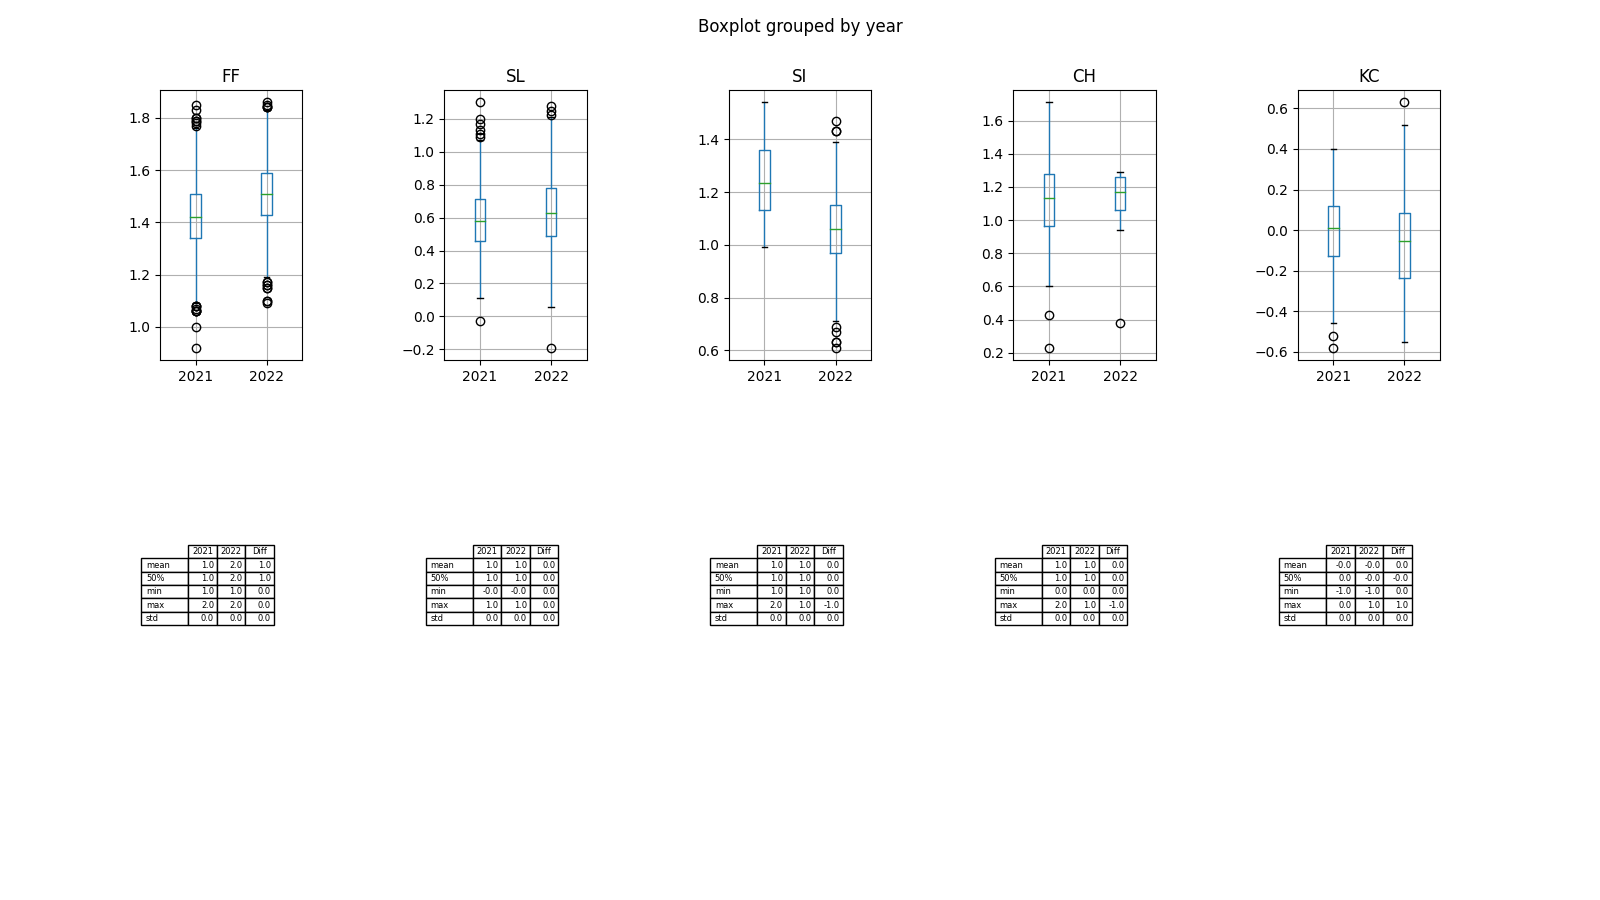
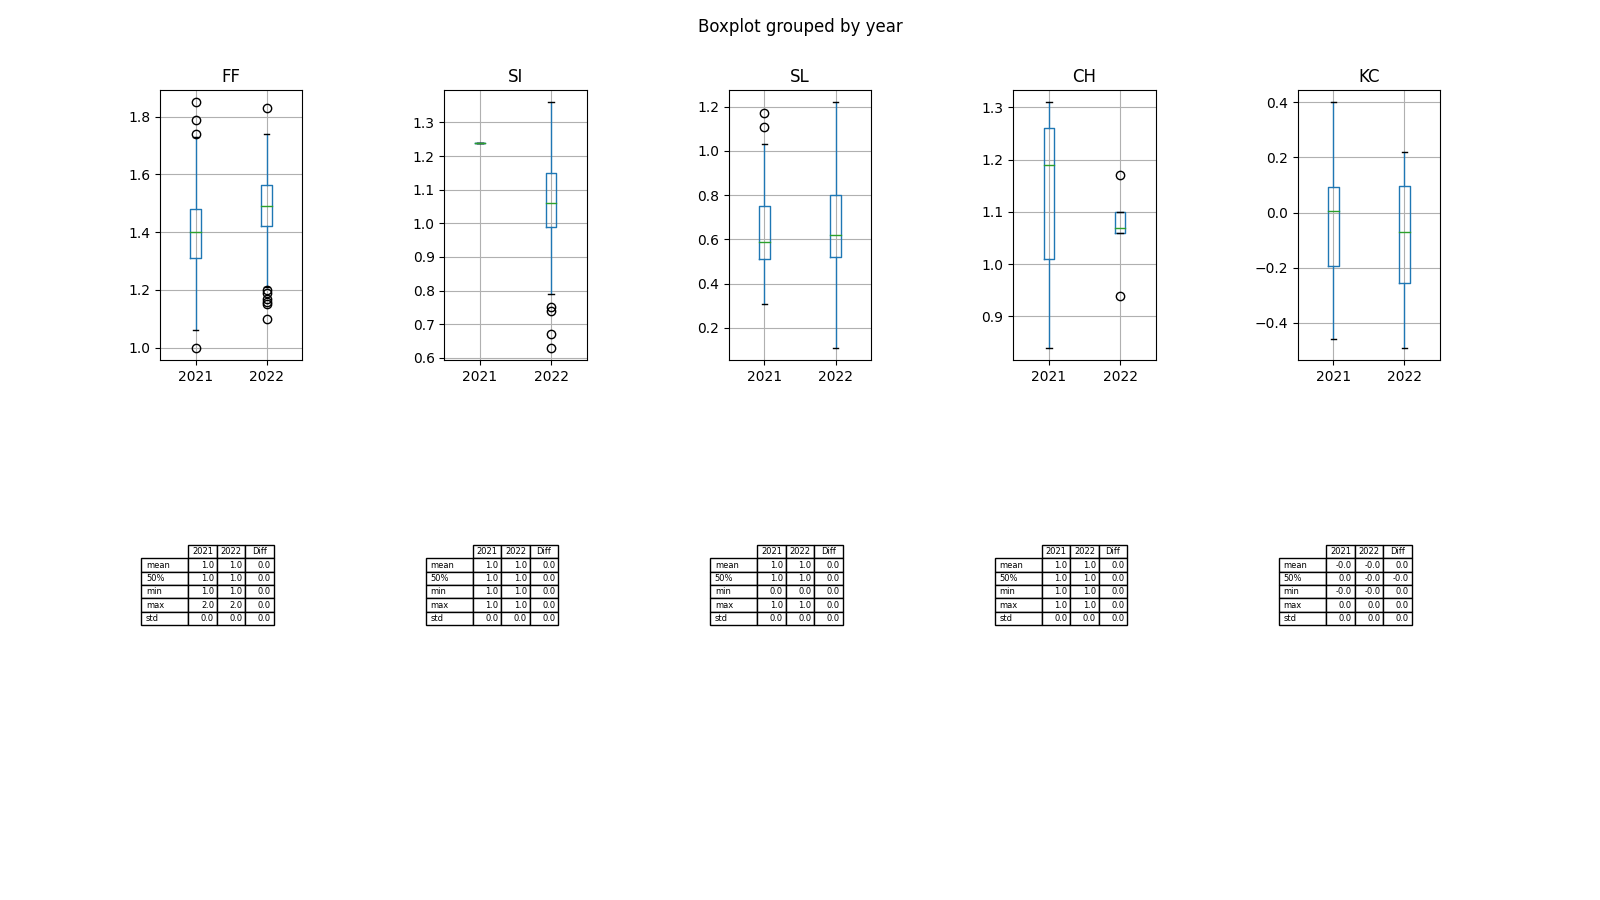
final

diff --git a/src/robbie_ray.py b/src/robbie_ray.py
@@ -8,34 +8,47 @@ player_id = 592662
 ray_stats = statcast_pitcher('2021-03-01', '2022-11-01', player_id)
 ray_stats['year'] = pd.to_datetime(ray_stats['game_date']).dt.year
 
+# Filter out rows without pitch_type and 'estimated_woba_using_speedangle'
+ray_stats = ray_stats.dropna(subset=['pitch_type', 'estimated_woba_using_speedangle'])
+
 # Features and stats
 features = ['release_speed', 'release_spin_rate', 'pfx_x', 'pfx_z', 'plate_x', 'plate_z']
-pitch_types = ray_stats['pitch_type'].dropna().unique()
+pitch_types = ray_stats['pitch_type'].unique()
 
 # Frequency Data
 pitch_frequency = ray_stats.groupby(['year', 'pitch_type']).size().reset_index(name='count')
 total_pitches = pitch_frequency.groupby('year')['count'].transform('sum')
 pitch_frequency['percent'] = (pitch_frequency['count'] / total_pitches) * 100
 
-# Page 1: Frequency Table
+# wOBA calculations
+woba_data = ray_stats.groupby(['year', 'pitch_type'])['estimated_woba_using_speedangle'].mean().reset_index()
+woba_pivot = woba_data.pivot(index='pitch_type', columns='year',
+                             values='estimated_woba_using_speedangle').fillna(0).round(3)
+
+# Merge frequency and wOBA
+merged_data = pd.merge(pitch_frequency, woba_data, how='outer', on=['year', 'pitch_type'])
+merged_pivot = merged_data.pivot(index='pitch_type', columns='year', values=[
+                                 'count', 'percent', 'estimated_woba_using_speedangle']).fillna(0)
+
+# Page 1: Frequency Table + wOBA
 fig1 = plt.figure(figsize=(11, 8.5))
 ax1 = fig1.add_subplot(111)
 ax1.axis('tight')
 ax1.axis('off')
 
-# Create a Pivot Table
-freq_table = pitch_frequency.pivot(index='pitch_type', columns='year', values=['count', 'percent']).fillna(0)
-
-# Calculate Differences
-freq_table[('count', 'diff')] = freq_table[('count', 2022)] - freq_table[('count', 2021)]
-freq_table[('percent', 'diff')] = freq_table[('percent', 2022)] - freq_table[('percent', 2021)]
+# Calculate Differences for Count and Percent
+merged_pivot[('count', 'diff')] = merged_pivot[('count', 2022)] - merged_pivot[('count', 2021)]
+merged_pivot[('percent', 'diff')] = merged_pivot[('percent', 2022)] - merged_pivot[('percent', 2021)]
 
 # Reorder and Format
-freq_table = freq_table[[('count', 2021), ('count', 2022), ('count', 'diff'), ('percent', 2021),
-                         ('percent', 2022), ('percent', 'diff')]].round(0).astype(int)
+final_table = merged_pivot[[('count', 2021), ('count', 2022), ('count', 'diff'), ('percent', 2021),
+                            ('percent', 2022), ('percent', 'diff'), ('estimated_woba_using_speedangle', 2021),
+                            ('estimated_woba_using_speedangle', 2022)]].round({'count': 0, 'percent': 0, 'estimated_woba_using_speedangle': 3}).astype({'count': int, 'percent': int})
 
-ax1.table(cellText=freq_table.values, colLabels=freq_table.columns, rowLabels=freq_table.index, loc='center')
-plt.savefig('FrequencyTable.png')
+ax1.table(cellText=final_table.values, colLabels=final_table.columns,
+          rowLabels=final_table.index, loc='center', fontsize=100)
+# plt.savefig('FrequencyTable_WOBA.png')
+final_table.to_csv('FrequencyTable_WOBA.csv')
 
 for feature in features:
     fig = plt.figure(figsize=(16, 9))
